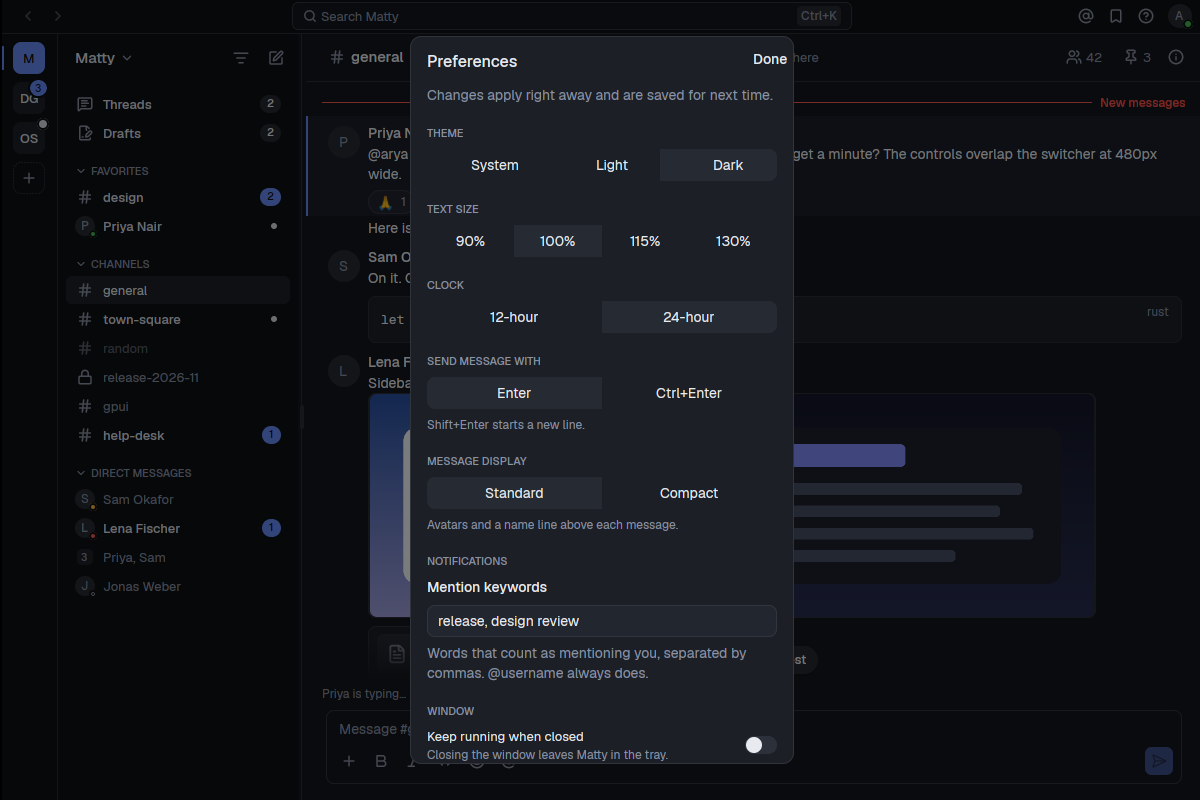
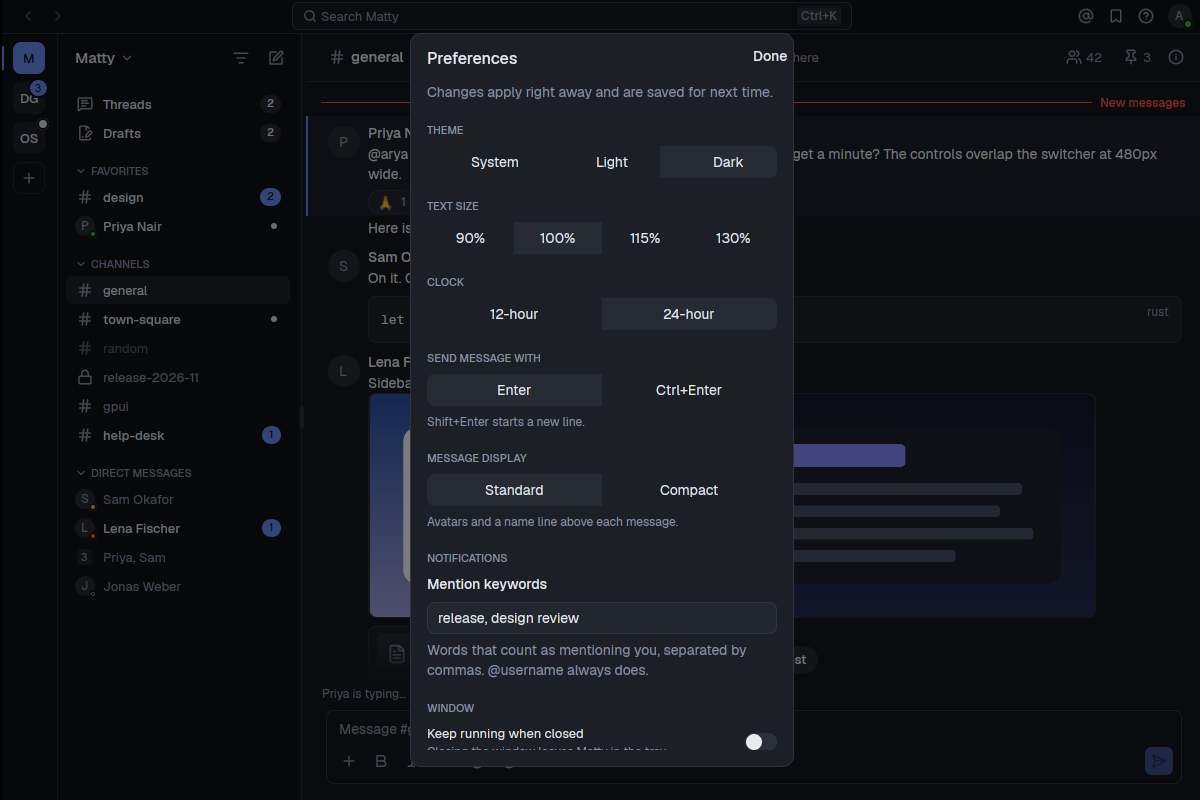
Scroll the Preferences sections inside a window-sized popup
The popup's height cap clipped the Window section once Notifications
was added. The sections now sit in a gpuicn ScrollArea sized to fit the
window, with the title and Done fixed.

Claude-Session: https://claude.ai/code/session_017QMGXwHzbkz4RPjfZ4Xs21

diff --git a/crates/matty-app/src/main_window.rs b/crates/matty-app/src/main_window.rs
@@ -44,6 +44,7 @@ use crate::ui::{
     kbd::Kbd,
     markdown::selection_root,
     resizable::{PaneLimits, Resizable},
+    scroll_area::ScrollArea,
     switch::Switch,
     theme::{UiTheme, transition_value},
     title_bar::TitleBar,
@@ -2637,33 +2638,40 @@ impl MainWindow {
                             }),
                     )
             };
-        // Taller than gpuicn's default so every section shows at once.
+        // The sections scroll inside the popup, which stays within the
+        // window: the title and Done above them take about space(24.).
+        let body_height = theme
+            .space(158.)
+            .min(window.viewport_size().height - theme.space(40.));
         let popup = dialog_popup("preferences.popup", "Preferences", cx)
-            .max_h(theme.space(182.))
             .child(dialog_title("preferences.title", cx).child("Preferences"))
             .child(
                 dialog_description("preferences.description", cx)
                     .child("Changes apply right away and are saved for next time."),
             )
             .child(
-                div()
-                    .flex()
-                    .flex_col()
-                    .gap(theme.space(5.))
-                    .pt(theme.space(1.))
-                    .child(section("Theme", theme_group.into_any_element()))
-                    .child(section("Text size", size_group.into_any_element()))
-                    .child(section("Clock", clock_group.into_any_element()))
-                    .child(section(
-                        "Send message with",
-                        send_section.into_any_element(),
-                    ))
-                    .child(section(
-                        "Message display",
-                        display_section.into_any_element(),
-                    ))
-                    .when(self.notify_props.is_some(), |list| {
-                        list.child(section(
+                ScrollArea::new("preferences.body")
+                    .aria_label("Preferences")
+                    .h(body_height)
+                    .child(
+                        div()
+                            .flex()
+                            .flex_col()
+                            .gap(theme.space(5.))
+                            .pt(theme.space(1.))
+                            .child(section("Theme", theme_group.into_any_element()))
+                            .child(section("Text size", size_group.into_any_element()))
+                            .child(section("Clock", clock_group.into_any_element()))
+                            .child(section(
+                                "Send message with",
+                                send_section.into_any_element(),
+                            ))
+                            .child(section(
+                                "Message display",
+                                display_section.into_any_element(),
+                            ))
+                            .when(self.notify_props.is_some(), |list| {
+                                list.child(section(
                             "Notifications",
                             Field::new("preferences.keywords", &self.keywords)
                                 .label("Mention keywords")
@@ -2673,36 +2681,37 @@ impl MainWindow {
                                 )
                                 .into_any_element(),
                         ))
-                    })
-                    .child(section(
-                        "Window",
-                        div()
-                            .flex()
-                            .flex_col()
-                            .gap(theme.space(3.))
-                            .child(switch_row(
-                                "preferences.close-to-tray",
-                                "Keep running when closed",
-                                "Closing the window leaves Matty in the tray.",
-                                settings.close_to_tray,
-                                |s, v| s.close_to_tray = v,
-                            ))
-                            .child(switch_row(
-                                "preferences.launch-at-login",
-                                "Open at login",
-                                "Start Matty when you sign in.",
-                                settings.launch_at_login,
-                                |s, v| s.launch_at_login = v,
-                            ))
-                            .child(switch_row(
-                                "preferences.reduce-motion",
-                                "Reduce motion",
-                                "Panes and banners change without sliding.",
-                                settings.reduce_motion,
-                                |s, v| s.reduce_motion = v,
-                            ))
-                            .into_any_element(),
-                    )),
+                            })
+                            .child(section(
+                                "Window",
+                                div()
+                                    .flex()
+                                    .flex_col()
+                                    .gap(theme.space(3.))
+                                    .child(switch_row(
+                                        "preferences.close-to-tray",
+                                        "Keep running when closed",
+                                        "Closing the window leaves Matty in the tray.",
+                                        settings.close_to_tray,
+                                        |s, v| s.close_to_tray = v,
+                                    ))
+                                    .child(switch_row(
+                                        "preferences.launch-at-login",
+                                        "Open at login",
+                                        "Start Matty when you sign in.",
+                                        settings.launch_at_login,
+                                        |s, v| s.launch_at_login = v,
+                                    ))
+                                    .child(switch_row(
+                                        "preferences.reduce-motion",
+                                        "Reduce motion",
+                                        "Panes and banners change without sliding.",
+                                        settings.reduce_motion,
+                                        |s, v| s.reduce_motion = v,
+                                    ))
+                                    .into_any_element(),
+                            )),
+                    ),
             )
             .child(dialog_close("preferences.close", cx).label("Done"));
         dialog("preferences", &self.preferences, popup, window, cx)
